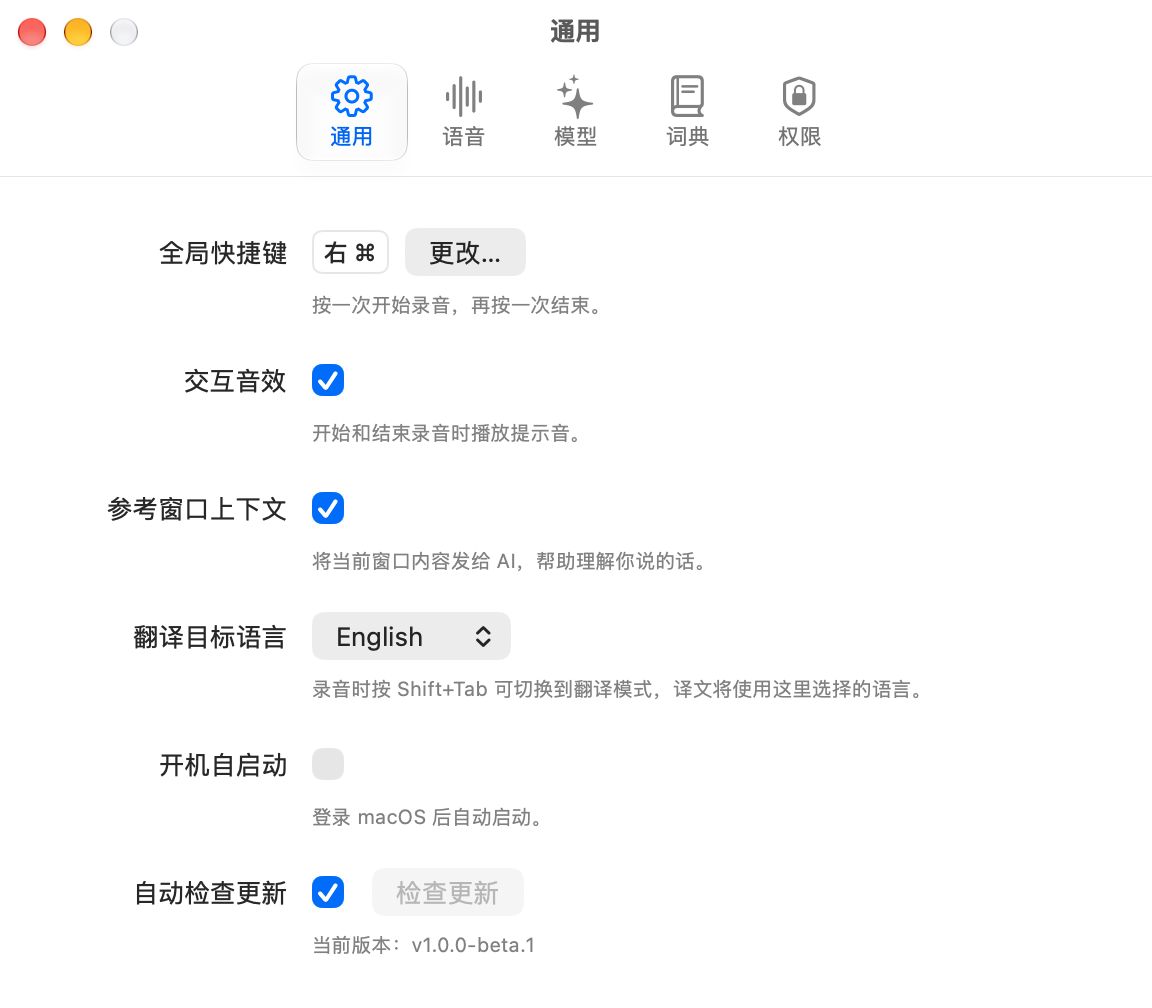
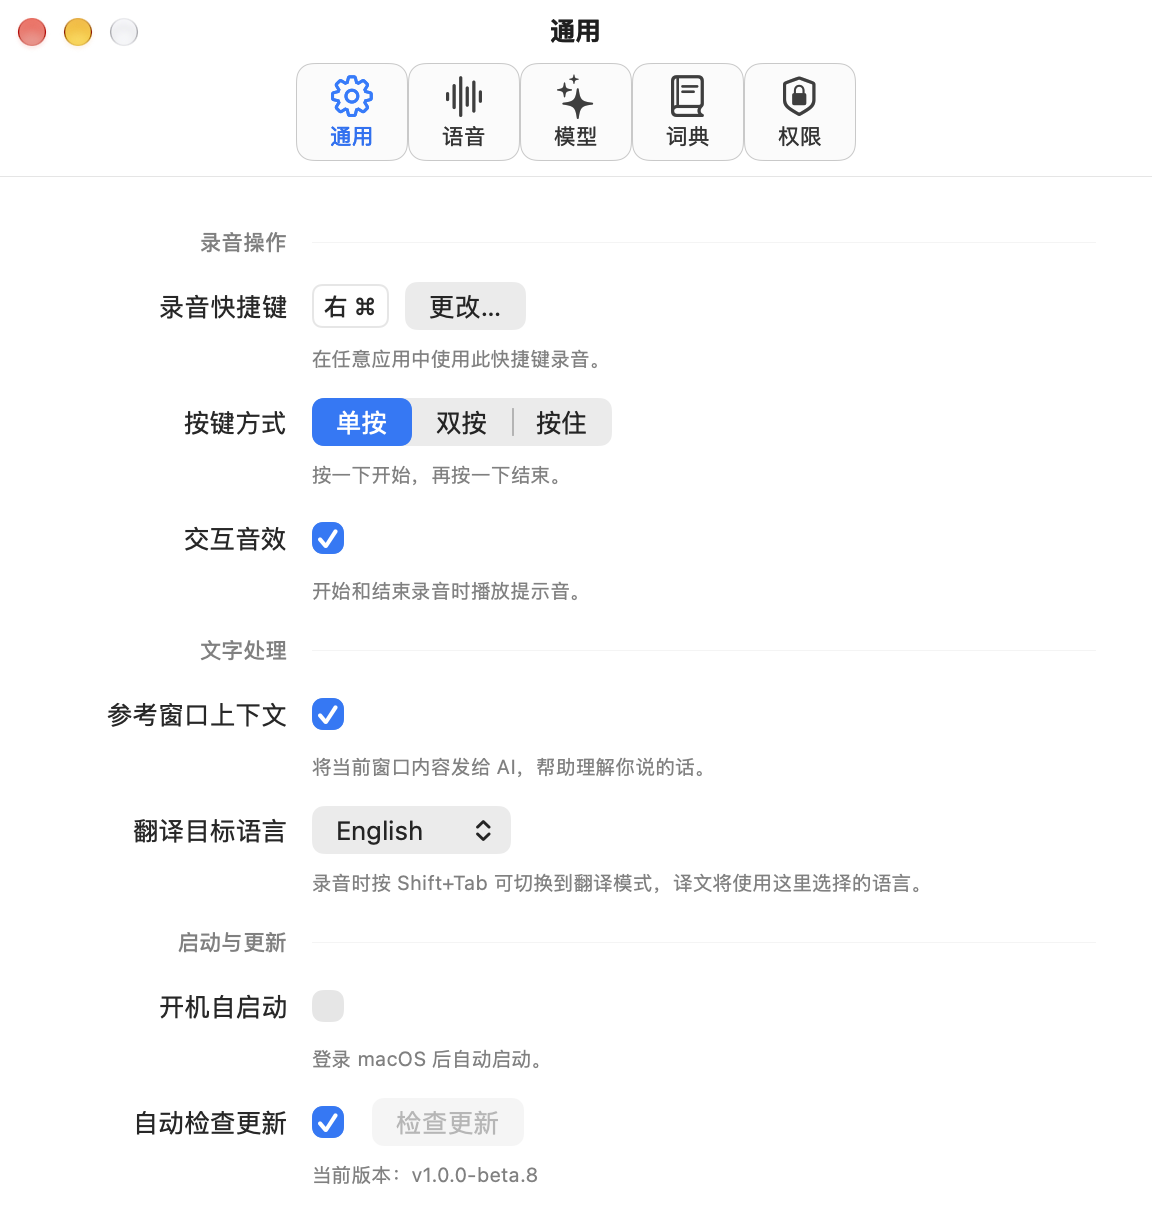
docs(readme): refresh settings screenshots for beta.8

diff --git a/README.md b/README.md
@@ -30,15 +30,15 @@
 
 <table>
   <tr>
-    <td align="center"><img src="./docs/media/settings-general.png" alt="通用设置：快捷键、翻译、音效和窗口上下文" width="440" /><br />通用设置</td>
-    <td align="center"><img src="./docs/media/settings-voice.png" alt="语音设置：麦克风、输入电平与语音引擎" width="440" /><br />语音设置</td>
+    <td align="center" valign="top"><img src="./docs/media/settings-general.png" alt="通用设置：录音快捷键、单按／双按／按住、文字处理和启动与更新" width="440" /><br />通用设置</td>
+    <td align="center" valign="top"><img src="./docs/media/settings-voice.png" alt="语音设置：音频输入分组和 OpenAI 兼容语音识别配置" width="440" /><br />语音设置</td>
   </tr>
   <tr>
-    <td align="center"><img src="./docs/media/settings-model.png" alt="模型设置：连接 AI 服务，整理和翻译语音识别结果" width="440" /><br />模型设置</td>
-    <td align="center"><img src="./docs/media/settings-dictionary.png" alt="个人词典：搜索、筛选和词条管理" width="440" /><br />个人词典</td>
+    <td align="center" valign="top"><img src="./docs/media/settings-model.png" alt="模型设置：连接 AI 服务，整理和翻译语音识别结果" width="440" /><br />模型设置</td>
+    <td align="center" valign="top"><img src="./docs/media/settings-dictionary.png" alt="个人词典：搜索、筛选和词条管理" width="440" /><br />个人词典</td>
   </tr>
 </table>
-<sub>演示与截图使用示例内容。</sub>
+<sub>设置截图更新于 v1.0.0-beta.8；演示与截图均使用示例内容。</sub>
 
 ## 开始使用
 
